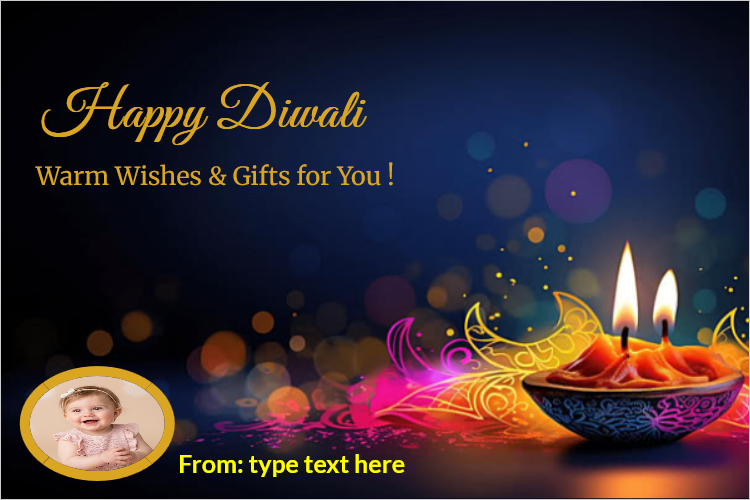
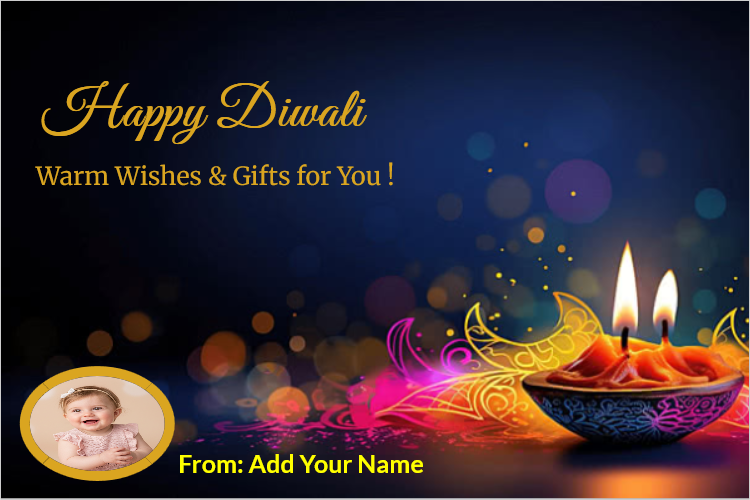
Chnages

diff --git a/database/seeders/CardTemplatesTableSeeder.php b/database/seeders/CardTemplatesTableSeeder.php
@@ -262,7 +262,7 @@ class CardTemplatesTableSeeder extends Seeder
                 'description' => 'Festival',
                 'template_data' => json_encode([
                     'bgColor' => '',
-                    'bgImage' => "/images/greeting-cards/backgrounds/birthday-12.jpg",
+                    'bgImage' => "/images/greeting-cards/backgrounds/festival-1.jpg",
                     'elements' => [
                         [
                             'type' => 'text',
@@ -295,7 +295,7 @@ class CardTemplatesTableSeeder extends Seeder
                 'description' => 'Festival',
                 'template_data' => json_encode([
                     'bgColor' => '',
-                    'bgImage' => "/images/greeting-cards/backgrounds/birthday-13.jpg",
+                    'bgImage' => "/images/greeting-cards/backgrounds/festival-2.jpg",
                     'elements' => [
                         [
                             'type' => 'text',
@@ -312,7 +312,7 @@ class CardTemplatesTableSeeder extends Seeder
                         [
                             'type' => 'text',
                             'id' => 'title3',
-                            'text' => 'From: type text here',
+                            'text' => 'From: Add Your Name',
                             'css' => 'z-index: 72; left: 133px; top: 349px; color: rgb(255, 255, 0); font-family: Lato, sans-serif; font-weight: bold;',
                         ], 
                         [
@@ -321,6 +321,162 @@ class CardTemplatesTableSeeder extends Seeder
                             'src' => '/images/greeting-cards/element/g-user-2.png',
                             'css' => 'position: absolute; top: 292px; left: 15px; width: 124px; height: 92px; border: 8px groove rgb(218, 165, 32); cursor: move; z-index: 59; border-radius: 50%;',
                         ],                   
+                    ]
+                ]),
+                'created_at' => now(),
+                'updated_at' => now(),
+            ],
+            [
+                'title' => 'Diwali Celebration',
+                'slug' => 'diwali-celebration',
+                'thumbnail' => '/images/greeting-cards/diwali-celebration-thumb.png',
+                'category' => 'Festival',
+                'description' => 'Festival',
+                'template_data' => json_encode([
+                    'bgColor' => '',
+                    'bgImage' => "/images/greeting-cards/backgrounds/festival-3.jpg",
+                    'elements' => [
+                        [
+                            'type' => 'text',
+                            'id' => 'title1',
+                            'text' => 'Happy Diwali',
+                            'css' => 'z-index: 44; left: 310px; top: 94px; color: rgb(255, 255, 0); font-weight: bold; font-family: "Dancing Script", sans-serif; font-size: 45px;',
+                        ],                       
+                        [
+                            'type' => 'text',
+                            'id' => 'title3',
+                            'text' => 'From: Add Your Name',
+                            'css' => 'z-index: 42; left: 133px; top: 349px; color: rgb(255, 255, 0); font-family: Lato, sans-serif; font-weight: bold;',
+                        ], 
+                        [
+                            'type' => 'image',
+                            'id' => 'img1',
+                            'src' => '/images/greeting-cards/element/g-user-2.png',
+                            'css' => 'position: absolute; top: 292px; left: 15px; width: 124px; height: 92px; border: 8px groove rgb(218, 165, 32); cursor: move; z-index: 59; border-radius: 50%;',
+                        ],
+                        [
+                            'type' => 'image',
+                            'id' => 'img2',
+                            'src' => '/images/greeting-cards/element/cracker-1.png',
+                            'css' => 'position: absolute; top: 275px; left: 440px; width: 183px; height: 137.281px; border: 0px solid rgb(0, 0, 0); cursor: move; z-index: 46; transform: rotate(10.3277deg);',
+                        ],
+                        [
+                            'type' => 'image',
+                            'id' => 'img3',
+                            'src' => '/images/greeting-cards/element/dip-1.gif',
+                            'css' => 'position: absolute; top: 180px; left: 346px; width: 137px; height: 104px; border: 9px inset rgb(255, 255, 0); cursor: move; z-index: 47; border-radius: 50%;',
+                        ],                  
+                    ]
+                ]),
+                'created_at' => now(),
+                'updated_at' => now(),
+            ],
+            [
+                'title' => 'Happy New Year',
+                'slug' => 'happy-new-year',
+                'thumbnail' => '/images/greeting-cards/happy-new-year-thumb.png',
+                'category' => 'Festival',
+                'description' => 'Festival',
+                'template_data' => json_encode([
+                    'bgColor' => '',
+                    'bgImage' => "/images/greeting-cards/backgrounds/festival-4.jpg",
+                    'elements' => [
+                        [
+                            'type' => 'text',
+                            'id' => 'title1',
+                            'text' => 'Happy New Year',
+                            'css' => 'z-index: 24; left: 185px; top: 62px; color: rgb(255, 255, 128); font-weight: bold; font-family: Righteous, sans-serif; font-size: 45px; text-align: center;',
+                        ],                       
+                        [
+                            'type' => 'text',
+                            'id' => 'title3',
+                            'text' => 'From: Add Your Name',
+                            'css' => 'z-index: 22; left: 232px; top: 338px; color: rgb(255, 255, 0); font-family: Lato, sans-serif; font-weight: bold;',
+                        ], 
+                        [
+                            'type' => 'image',
+                            'id' => 'img1',
+                            'src' => '/images/greeting-cards/element/g-user-2.png',
+                            'css' => 'z-index: 22; left: 232px; top: 338px; color: rgb(255, 255, 0); font-family: Lato, sans-serif; font-weight: bold;',
+                        ],                                       
+                    ]
+                ]),
+                'created_at' => now(),
+                'updated_at' => now(),
+            ],
+            [
+                'title' => 'New Year Wishes',
+                'slug' => 'new-year-wishes',
+                'thumbnail' => '/images/greeting-cards/new-year-wishes-thumb.png',
+                'category' => 'Festival',
+                'description' => 'Festival',
+                'template_data' => json_encode([
+                    'bgColor' => '',
+                    'bgImage' => "/images/greeting-cards/backgrounds/festival-5.jpg",
+                    'elements' => [
+                        [
+                            'type' => 'text',
+                            'id' => 'title1',
+                            'text' => 'Happy New Year 2026',
+                            'css' => 'z-index: 78; left: 120px; top: 145px; color: rgb(255, 255, 0); font-weight: bold; font-family: Righteous, sans-serif; font-size: 35px; text-align: center; border-style: none; border-width: 0px; border-color: rgb(255, 255, 255);',
+                        ], 
+                        [
+                            'type' => 'text',
+                            'id' => 'title2',
+                            'text' => 'Cheers to a healthy, happy, and prosperous New Year!',
+                            'css' => 'z-index: 83; left: 84px; top: 260px; color: rgb(255, 255, 0); font-size: 15px; font-weight: bold;',
+                        ],                     
+                        [
+                            'type' => 'text',
+                            'id' => 'title3',
+                            'text' => 'From: Add Your Name',
+                            'css' => 'z-index: 79; left: 249px; top: 345px; color: rgb(255, 255, 0); font-family: Lato, sans-serif; font-weight: bold;',
+                        ], 
+                        [
+                            'type' => 'image',
+                            'id' => 'img1',
+                            'src' => '/images/greeting-cards/element/g-user-2.png',
+                            'css' => 'position: absolute; top: 296px; left: 467px; width: 124px; height: 92px; border: 8px groove rgb(218, 165, 32); cursor: move; z-index: 82; border-radius: 50%;',
+                        ],                                          
+                    ]
+                ]),
+                'created_at' => now(),
+                'updated_at' => now(),
+            ],
+            [
+                'title' => 'New Year Celebration',
+                'slug' => 'new-year-celebration',
+                'thumbnail' => '/images/greeting-cards/new-year-celebration-thumb.png',
+                'category' => 'Festival',
+                'description' => 'Festival',
+                'template_data' => json_encode([
+                    'bgColor' => '',
+                    'bgImage' => "/images/greeting-cards/backgrounds/festival-6.jpg",
+                    'elements' => [
+                        [
+                            'type' => 'text',
+                            'id' => 'title1',
+                            'text' => 'Happy New Year',
+                            'css' => 'z-index: 36; left: 163px; top: 54px; color: rgb(218, 165, 32); font-weight: bold; font-family: Merriweather, sans-serif; font-size: 40px;',
+                        ],
+                        [
+                            'type' => 'text',
+                            'id' => 'title2',
+                            'text' => '2026',
+                            'css' => 'z-index: 37; left: 269px; top: 168px; color: rgb(255, 255, 255); font-weight: bold; font-size: 50px; font-family: "Bebas Neue", sans-serif;',
+                        ],                       
+                        [
+                            'type' => 'text',
+                            'id' => 'title3',
+                            'text' => 'Let\'s Celebrate !',
+                            'css' => 'z-index: 25; left: 222px; top: 113px; color: rgb(218, 165, 32); font-family: Pacifico, sans-serif; font-weight: bold; font-size: 30px;',
+                        ],
+                         [
+                            'type' => 'text',
+                            'id' => 'title4',
+                            'text' => 'Cheers to a New Beginning!  ',
+                            'css' => 'z-index: 38; left: 166px; top: 345px; color: rgb(255, 255, 128); font-weight: bold;',
+                        ],                                                              
                     ]
                 ]),
                 'created_at' => now(),

diff --git a/database/seeders/TemplateBackgroundSeeder.php b/database/seeders/TemplateBackgroundSeeder.php
@@ -71,12 +71,32 @@ class TemplateBackgroundSeeder extends Seeder
             ],
             [
                 'title' => '',
-                'image_path' => '/images/greeting-cards/backgrounds/birthday-12.jpg',
+                'image_path' => '/images/greeting-cards/backgrounds/festival-1.jpg',
                 'category' => 'Festival',
             ],
             [
                 'title' => '',
-                'image_path' => '/images/greeting-cards/backgrounds/birthday-13.jpg',
+                'image_path' => '/images/greeting-cards/backgrounds/festival-2.jpg',
+                'category' => 'Festival',
+            ],
+            [
+                'title' => '',
+                'image_path' => '/images/greeting-cards/backgrounds/festival-3.jpg',
+                'category' => 'Festival',
+            ],
+            [
+                'title' => '',
+                'image_path' => '/images/greeting-cards/backgrounds/festival-4.jpg',
+                'category' => 'Festival',
+            ],
+            [
+                'title' => '',
+                'image_path' => '/images/greeting-cards/backgrounds/festival-5.jpg',
+                'category' => 'Festival',
+            ],
+            [
+                'title' => '',
+                'image_path' => '/images/greeting-cards/backgrounds/festival-6.jpg',
                 'category' => 'Festival',
             ],
 
